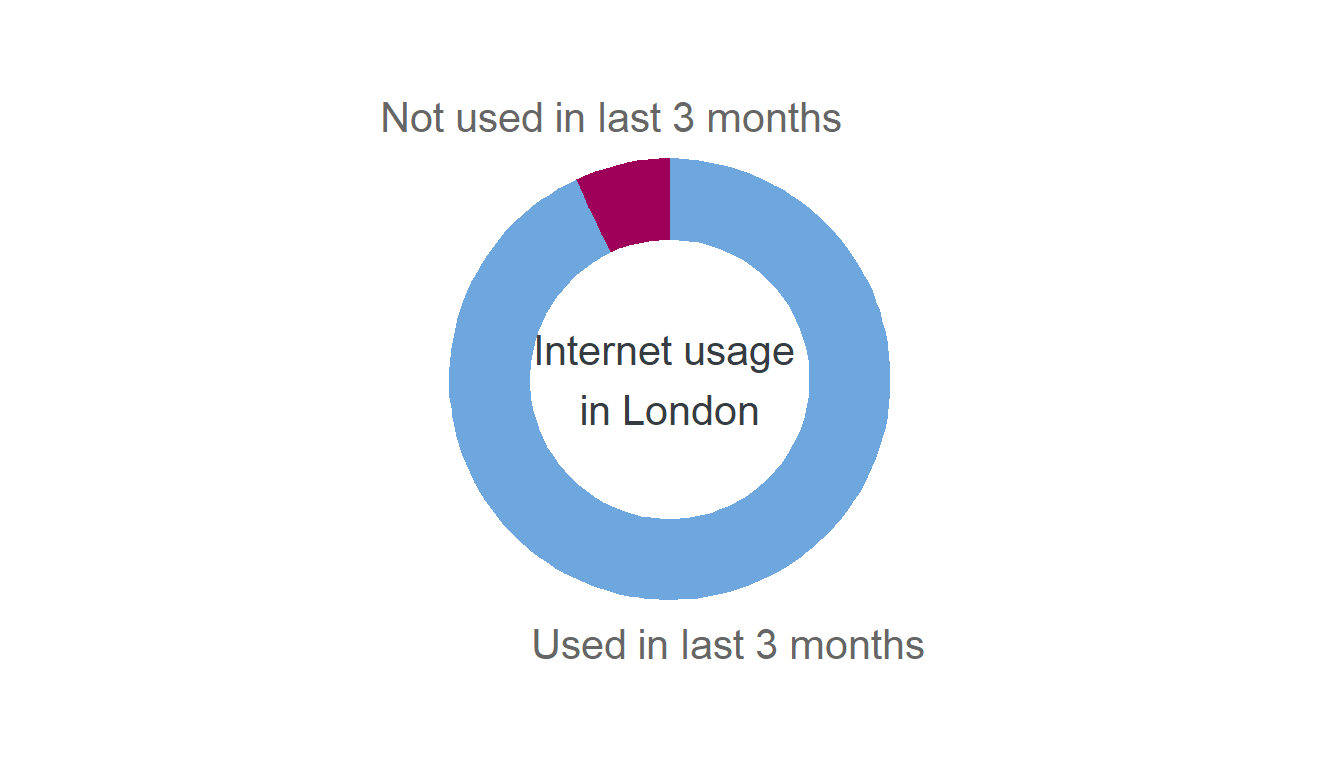
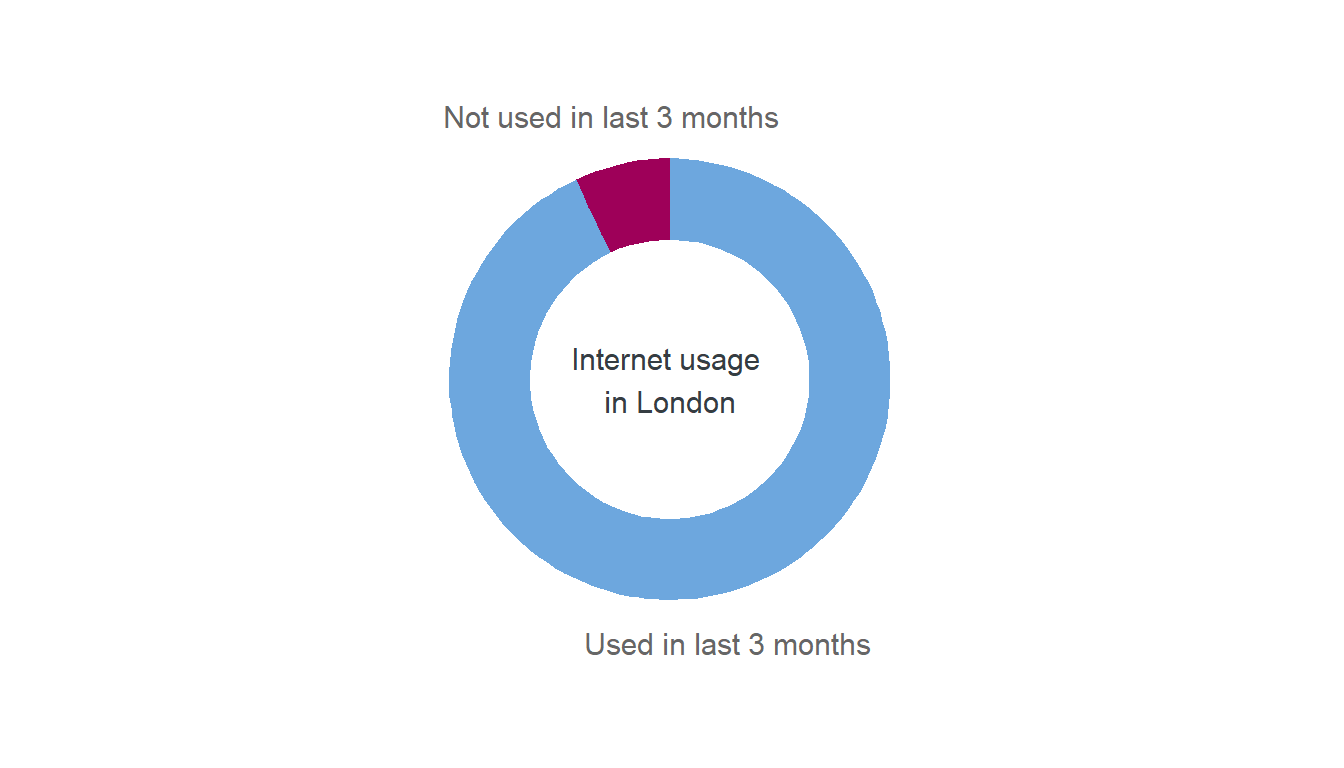
Small adjustments to vignette
Include remove_margin example
Reduce font size of donut

Changed region(s): [[0.375, 0.4375, 0.5938, 0.5625], [0.2812, 0.125, 0.625, 0.1875], [0.4062, 0.8125, 0.6875, 0.875]]

diff --git a/docs/articles/v03_Custom_ggla_plots.html b/docs/articles/v03_Custom_ggla_plots.html
@@ -487,7 +487,7 @@ pal &lt;-<span class="st"> </span><span class="kw"><a href="../reference/gla_pal
 
 <span class="kw">ggplot</span>(<span class="dt">data =</span> Internet, <span class="dt">mapping =</span> <span class="kw">aes</span>(<span class="dt">fill =</span> usage)) <span class="op">+</span>
 <span class="st">  </span><span class="kw"><a href="../reference/ggla_donut.html">ggla_donut</a></span>(<span class="dt">mapping =</span> <span class="kw">aes</span>(<span class="dt">label =</span> usage, <span class="dt">y =</span> numUsers), <span class="dt">stat =</span> <span class="st">"identity"</span>,
-             <span class="dt">title =</span> <span class="st">"Internet usage </span><span class="ch">\n</span><span class="st">in London"</span>) <span class="op">+</span>
+             <span class="dt">title =</span> <span class="st">"Internet usage </span><span class="ch">\n</span><span class="st">in London"</span>, <span class="dt">base_size =</span> <span class="dv">10</span>) <span class="op">+</span>
 <span class="st">  </span><span class="kw">scale_fill_manual</span>(<span class="dt">values =</span> pal)</code></pre></div>
 <p><img src="v03_Custom_ggla_plots_files/figure-html/unnamed-chunk-18-1.png" width="672"></p>
 </div>
@@ -561,7 +561,8 @@ pal &lt;-<span class="st"> </span><span class="kw"><a href="../reference/gla_pal
 </table>
 <p>The leave vote has been seperated out into categories for each Borough. The geometry of each Borough is available on the <a href="https://data.london.gov.uk/dataset/statistical-gis-boundary-files-london">DataStore</a>.</p>
 <p>To plot geographical data, you can use the <code><a href="../reference/ggla_sf.html">ggla_sf()</a></code> which uses the <code>ggplot::geom_sf()</code> function and changes some of the defaults to fit with our style guide. This function works with <em>simple features data</em>, as used in the <a href="https://www.rdocumentation.org/packages/sf/versions/0.7-2">sf package</a>.</p>
-<div class="sourceCode"><pre class="sourceCode r"><code class="sourceCode r">pal &lt;-<span class="st"> </span><span class="kw"><a href="../reference/gla_pal.html">gla_pal</a></span>(<span class="dt">gla_theme =</span> <span class="st">"default"</span>, <span class="dt">palette_type =</span> <span class="st">"diverging"</span>,
+<div class="sourceCode"><pre class="sourceCode r"><code class="sourceCode r"><span class="co"># Generate a diverging palette - the edges get a bit dark so the remove margins</span>
+pal &lt;-<span class="st"> </span><span class="kw"><a href="../reference/gla_pal.html">gla_pal</a></span>(<span class="dt">gla_theme =</span> <span class="st">"default"</span>, <span class="dt">palette_type =</span> <span class="st">"diverging"</span>,
                <span class="dt">main_colours =</span> <span class="kw"><a href="https://www.rdocumentation.org/packages/base/topics/c">c</a></span>(<span class="st">"blue"</span>, <span class="st">"red"</span>), <span class="dt">n =</span> <span class="dv">6</span>, <span class="dt">remove_margin =</span> <span class="st">"both"</span>)
 
 <span class="kw">ggplot</span>(EURef, <span class="kw">aes</span>(<span class="dt">fill =</span> CatLeave)) <span class="op">+</span>
